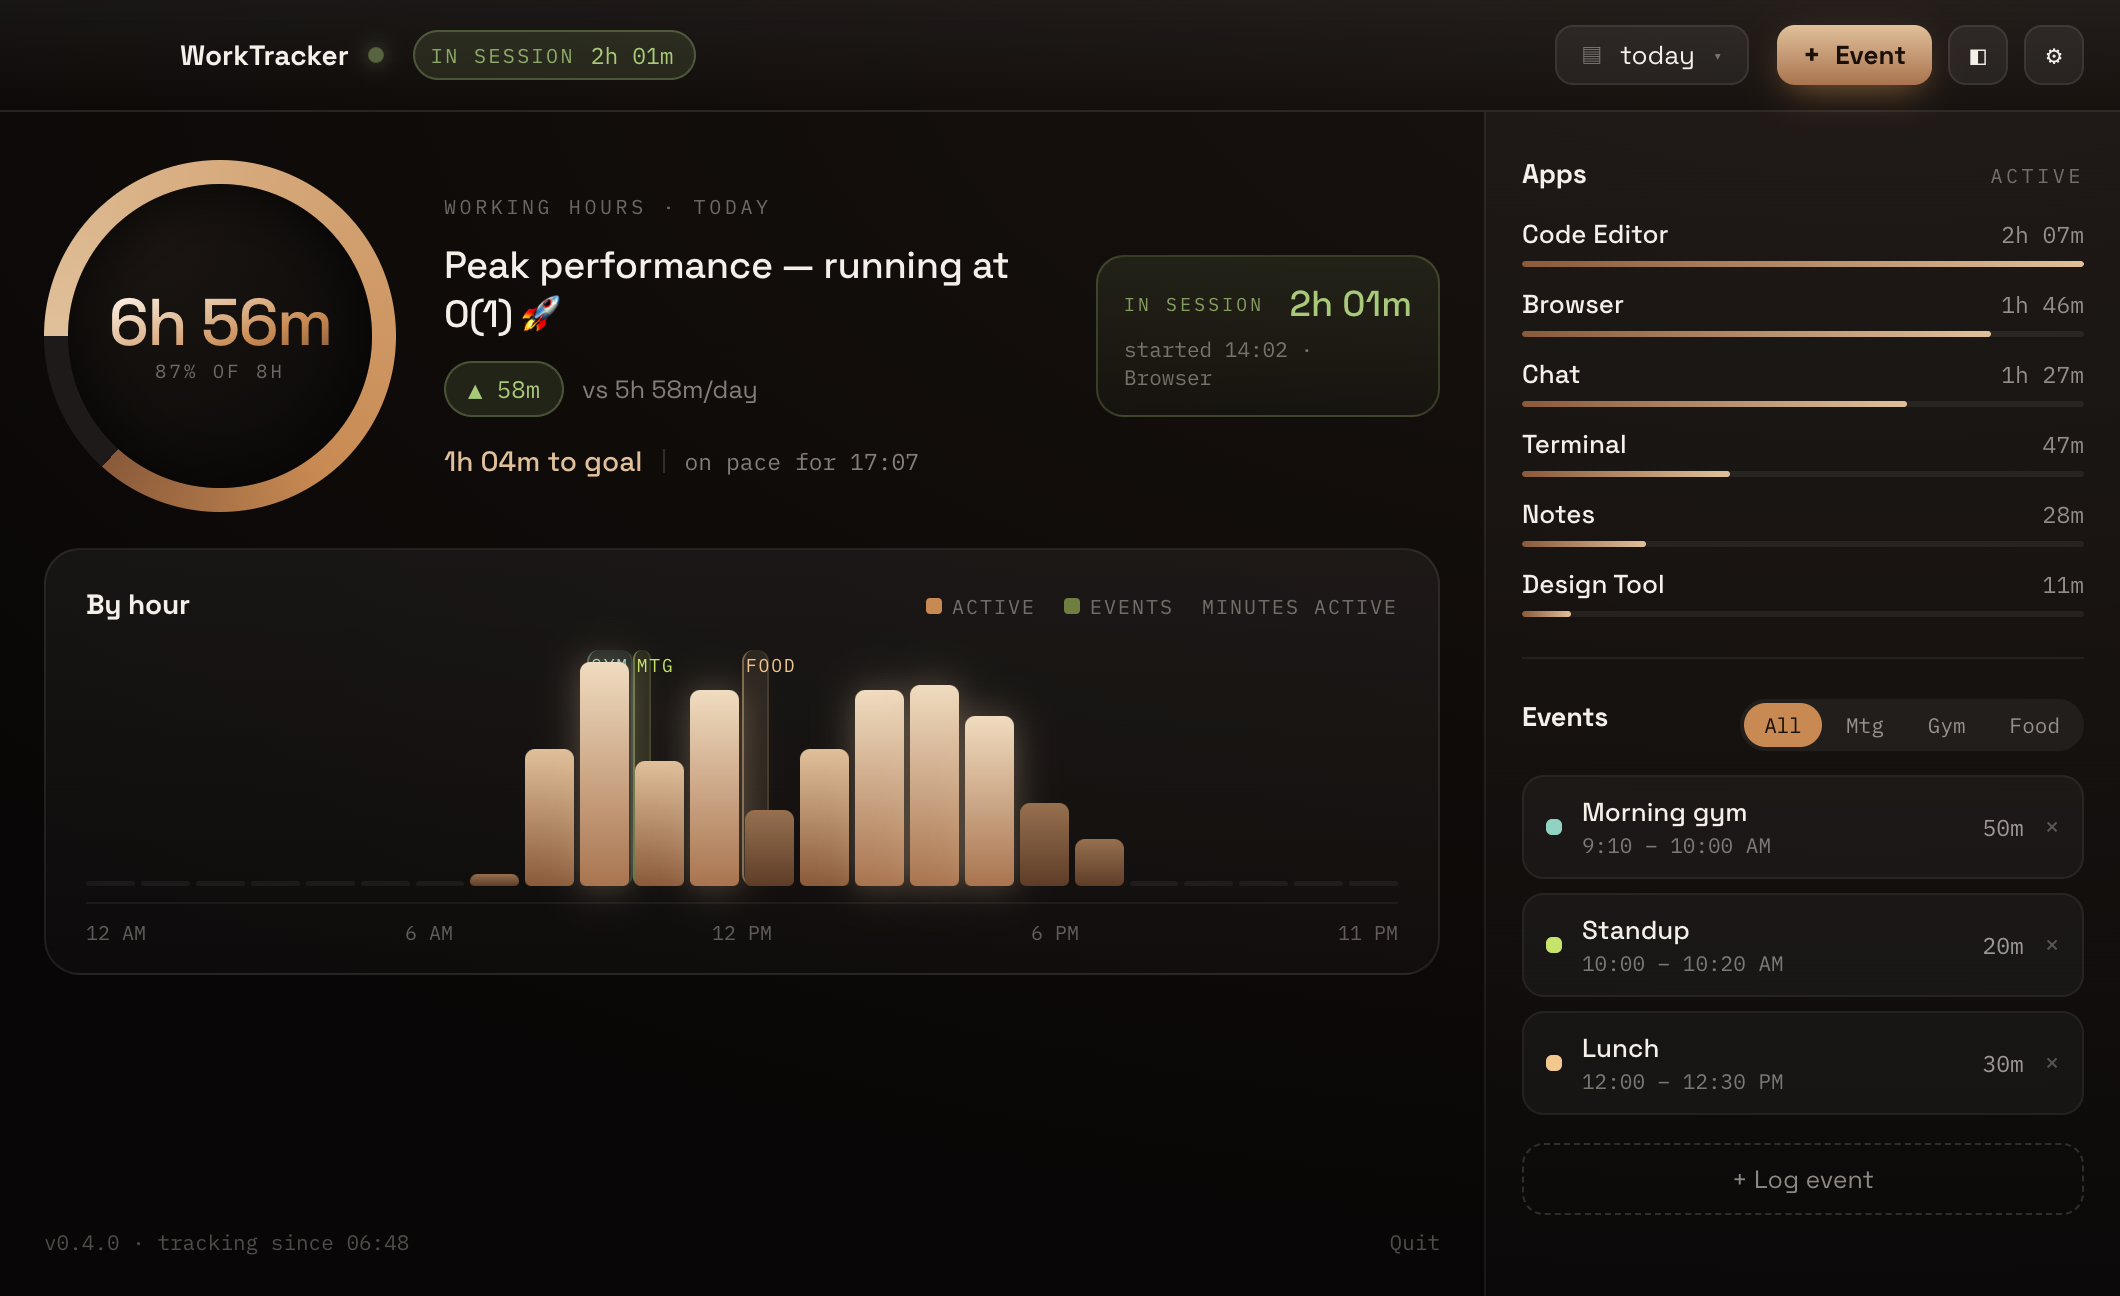
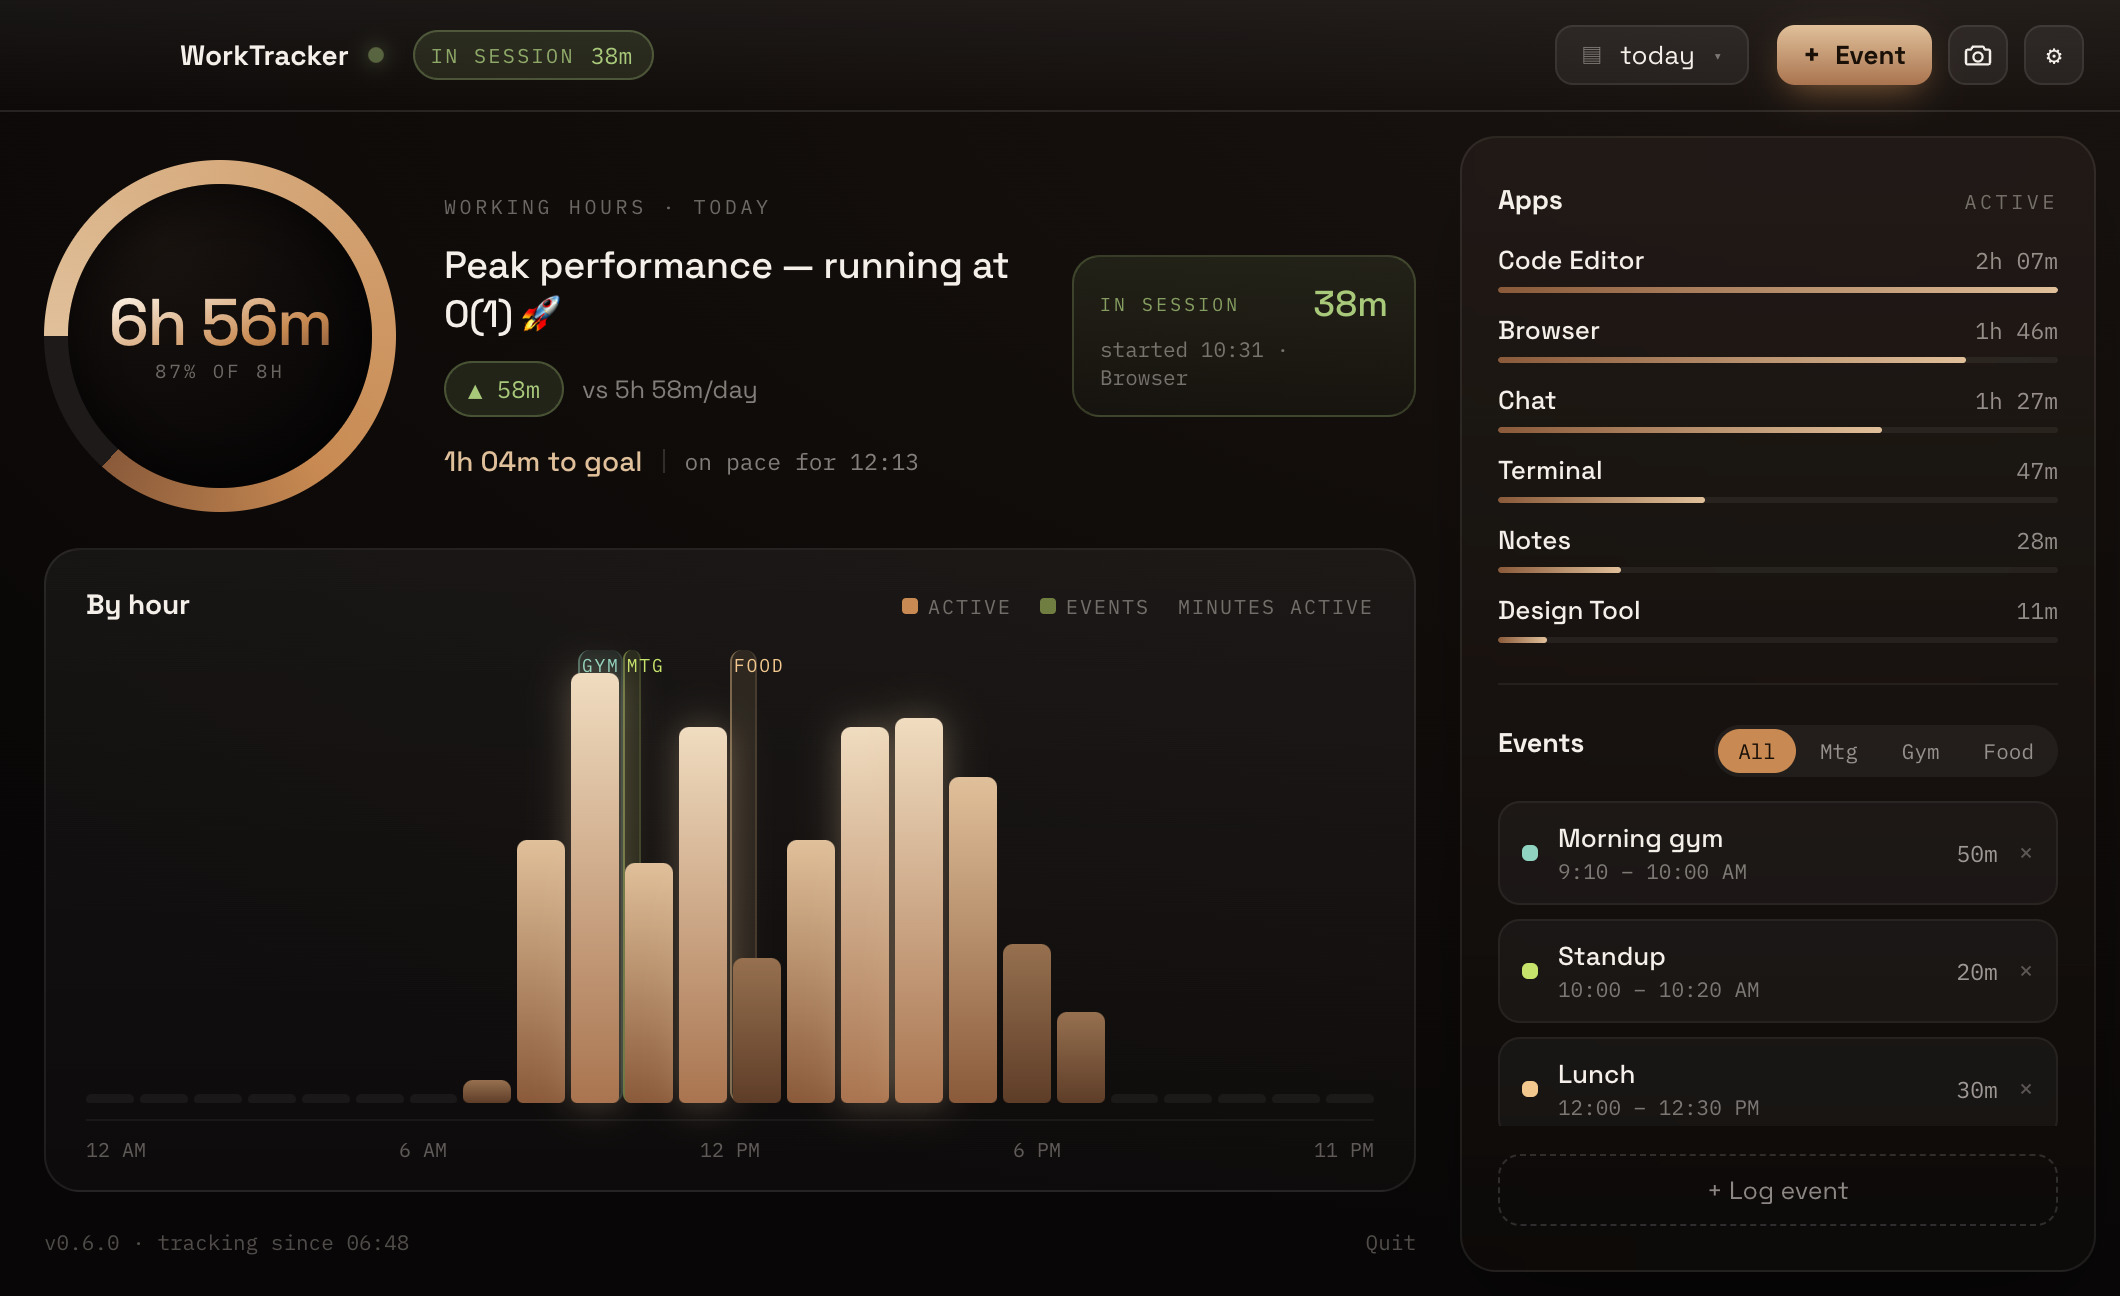
Refresh screenshots for 0.6.0; add light mode, menu-bar card and snapshot

diff --git a/README.md b/README.md
@@ -74,14 +74,17 @@ forgotten pause can't swallow your day.
 - **Live session** — how long this stretch of work has been going, and in which app
 - Activity **by hour, by day or by month**, with anything you logged drawn as
   bands behind today's hours
-- Your top apps and your logged events, in the rail
-- 📸 **Day snapshot** — export a shareable card, including how the day
-  compares to your all-time average
+- Your top apps and your logged events, in a floating sidebar
+- **Day snapshot** — export a shareable card of the day (below)
 - Drag the window narrow and it becomes a compact glance card
 
-From the menu bar: a small card with today's total, your progress toward the
-goal, and the focused / meetings split. `⌥⌘P` pauses and `⌥⌘N` logs an event from
-anywhere.
+### From the menu bar
+
+A deliberately minimal card: today's total, progress toward the goal, and the
+focused / meetings split. Pause, log event and quit live in the tray's
+right-click menu; `⌥⌘P` pauses and `⌥⌘N` logs an event from anywhere.
+
+<img src="screenshots/menubar-card.png" width="346" alt="The menu-bar card" />
 
 ### Themes
 
@@ -90,9 +93,17 @@ app, including exported snapshots. Amber is the default. Light mode is derived
 from whichever palette you pick, so each one keeps its own character rather than
 collapsing to the same white.
 
-| Espresso ☕ | Pride 🏳🌈 |
-|---|---|
-| ![Espresso](screenshots/dashboard-espresso.png) | ![Pride](screenshots/dashboard-pride.png) |
+| Amber · light | Pride · dark | Espresso · dark |
+|---|---|---|
+| ![Amber in light mode](screenshots/dashboard-light-amber.png) | ![Pride](screenshots/dashboard-pride.png) | ![Espresso](screenshots/dashboard-espresso.png) |
+
+### Day snapshot
+
+Export the day as a shareable card — working hours, how it compares to your
+all-time average, the by-hour chart and your top apps. Captured at 2× and saved
+wherever you like.
+
+<img src="screenshots/day-snapshot.png" width="400" alt="An exported day snapshot" />
 
 ---
 
